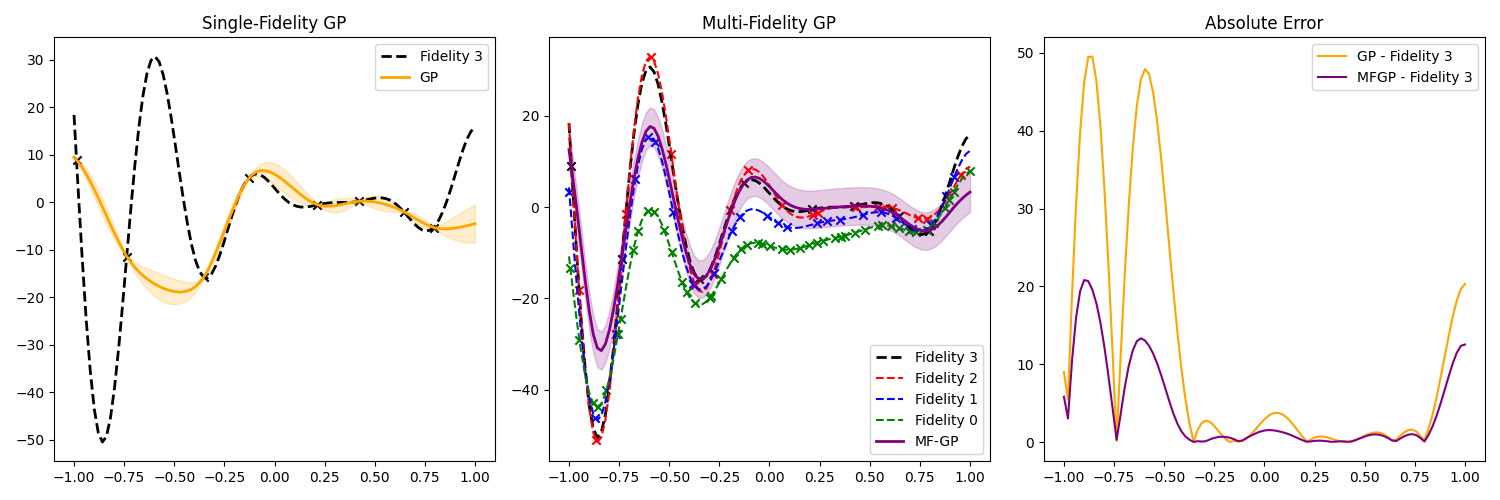
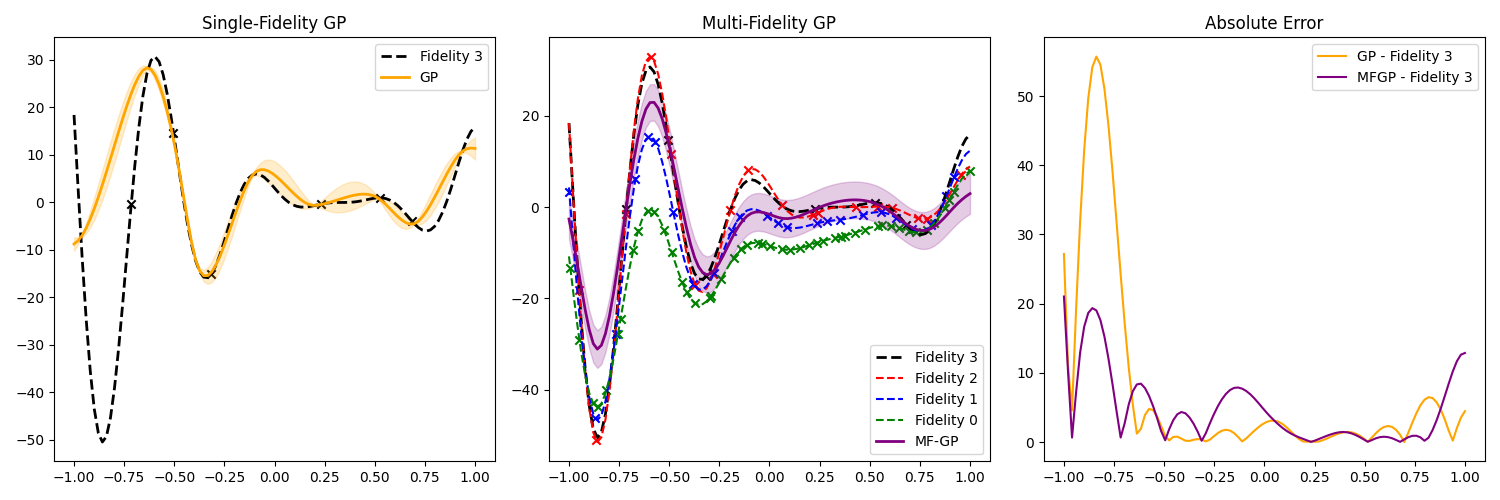
more fair comparison

diff --git a/test/gps/05_1D_mfgp_4.py b/test/gps/05_1D_mfgp_4.py
@@ -22,9 +22,11 @@ kernel = MaternKernel(lengthscale=jnp.array([1.0]), variance=1.0)
 data_0 = generate_dataset(MFForrester.f_0, jnp.array([bounds]), 48, seed=1)
 data_1 = generate_dataset(MFForrester.f_1, jnp.array([bounds]), 24, seed=1)
 data_2 = generate_dataset(MFForrester.f_2, jnp.array([bounds]), 18, seed=1)
-data_3 = generate_dataset(MFForrester.f_3, jnp.array([bounds]), 8, seed=1)
+data_3 = generate_dataset(MFForrester.f_3, jnp.array([bounds]), 6, seed=1)
 
-gp = SingleOuputGP(data_3.x_train, data_3.y_train, copy.deepcopy(kernel), noise=1e-2)
+data_3_single = generate_dataset(MFForrester.f_3, jnp.array([bounds]), 10, seed=1)
+
+gp = SingleOuputGP(data_3_single.x_train, data_3_single.y_train, copy.deepcopy(kernel), noise=1e-2)
 gp.fit(steps=1000)
 
 # Train Multi-Fidelity GP
